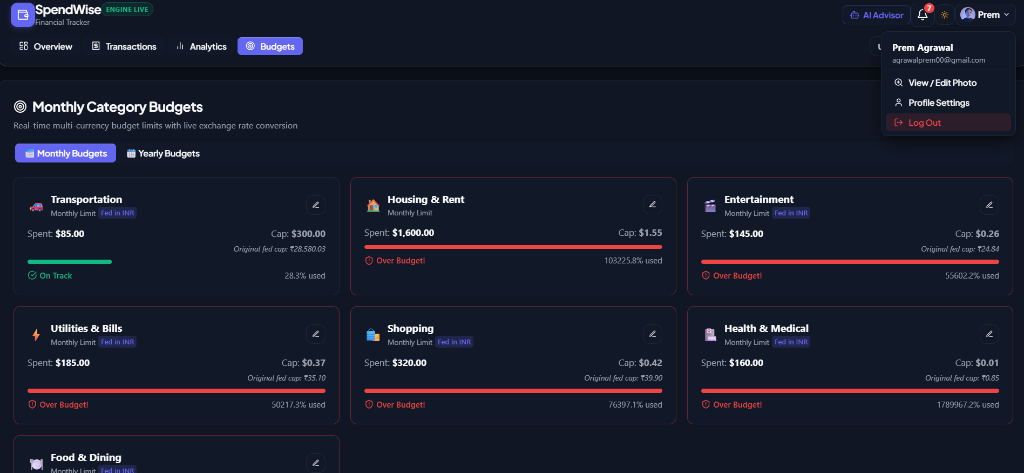
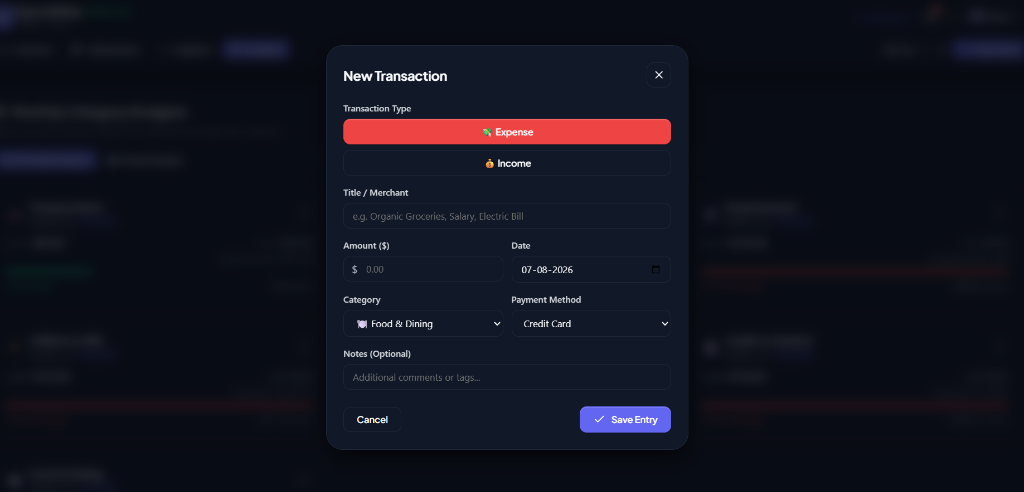
Replace all README images with exact newly uploaded screenshots

diff --git a/README.md b/README.md
@@ -28,24 +28,17 @@ Sleek modal for recording new income or expense transactions with merchant title
 
 ---
 
-### 3. 🐷 Interactive Active Savings Goals & Automated Deductions
+### 3. 🐷 Interactive Active Savings Goals & Automated Cash Deductions
 Define personal savings milestones (Vacation, Laptop, Emergency Fund) with target progress bars, percentage tracking, and **automated cash balance deductions** when adding deposits.
 
 ![Active Savings Goals](docs/screenshots/03_active_savings_goals.png)
 
 ---
 
-### 4. 📊 12-Month Cashflow Breakdown & Specific Date Filtered Log
-Interactive 12-month bar chart comparing Income vs Outflow, category expense share doughnut chart, and transaction history with **specific date picker filtering**.
-
-![Cashflow Analytics & Transactions](docs/screenshots/04_cashflow_breakdown_and_transactions.png)
-
----
-
-### 5. 📥 Custom Timeframe Data Export & PDF Statement Generator
+### 4. 📥 Custom Timeframe Data Export & PDF Statement Generator
 Filter transaction records by custom start/end date ranges (`From Date` – `To Date`) or preset timeframes, then export to **Excel CSV**, **JSON Backup**, or print a formatted **PDF Statement**.
 
-![Custom Timeframe Data Export](docs/screenshots/05_custom_export_modal.png)
+![Custom Timeframe Data Export](docs/screenshots/04_custom_timeframe_export.png)
 
 ---
 
